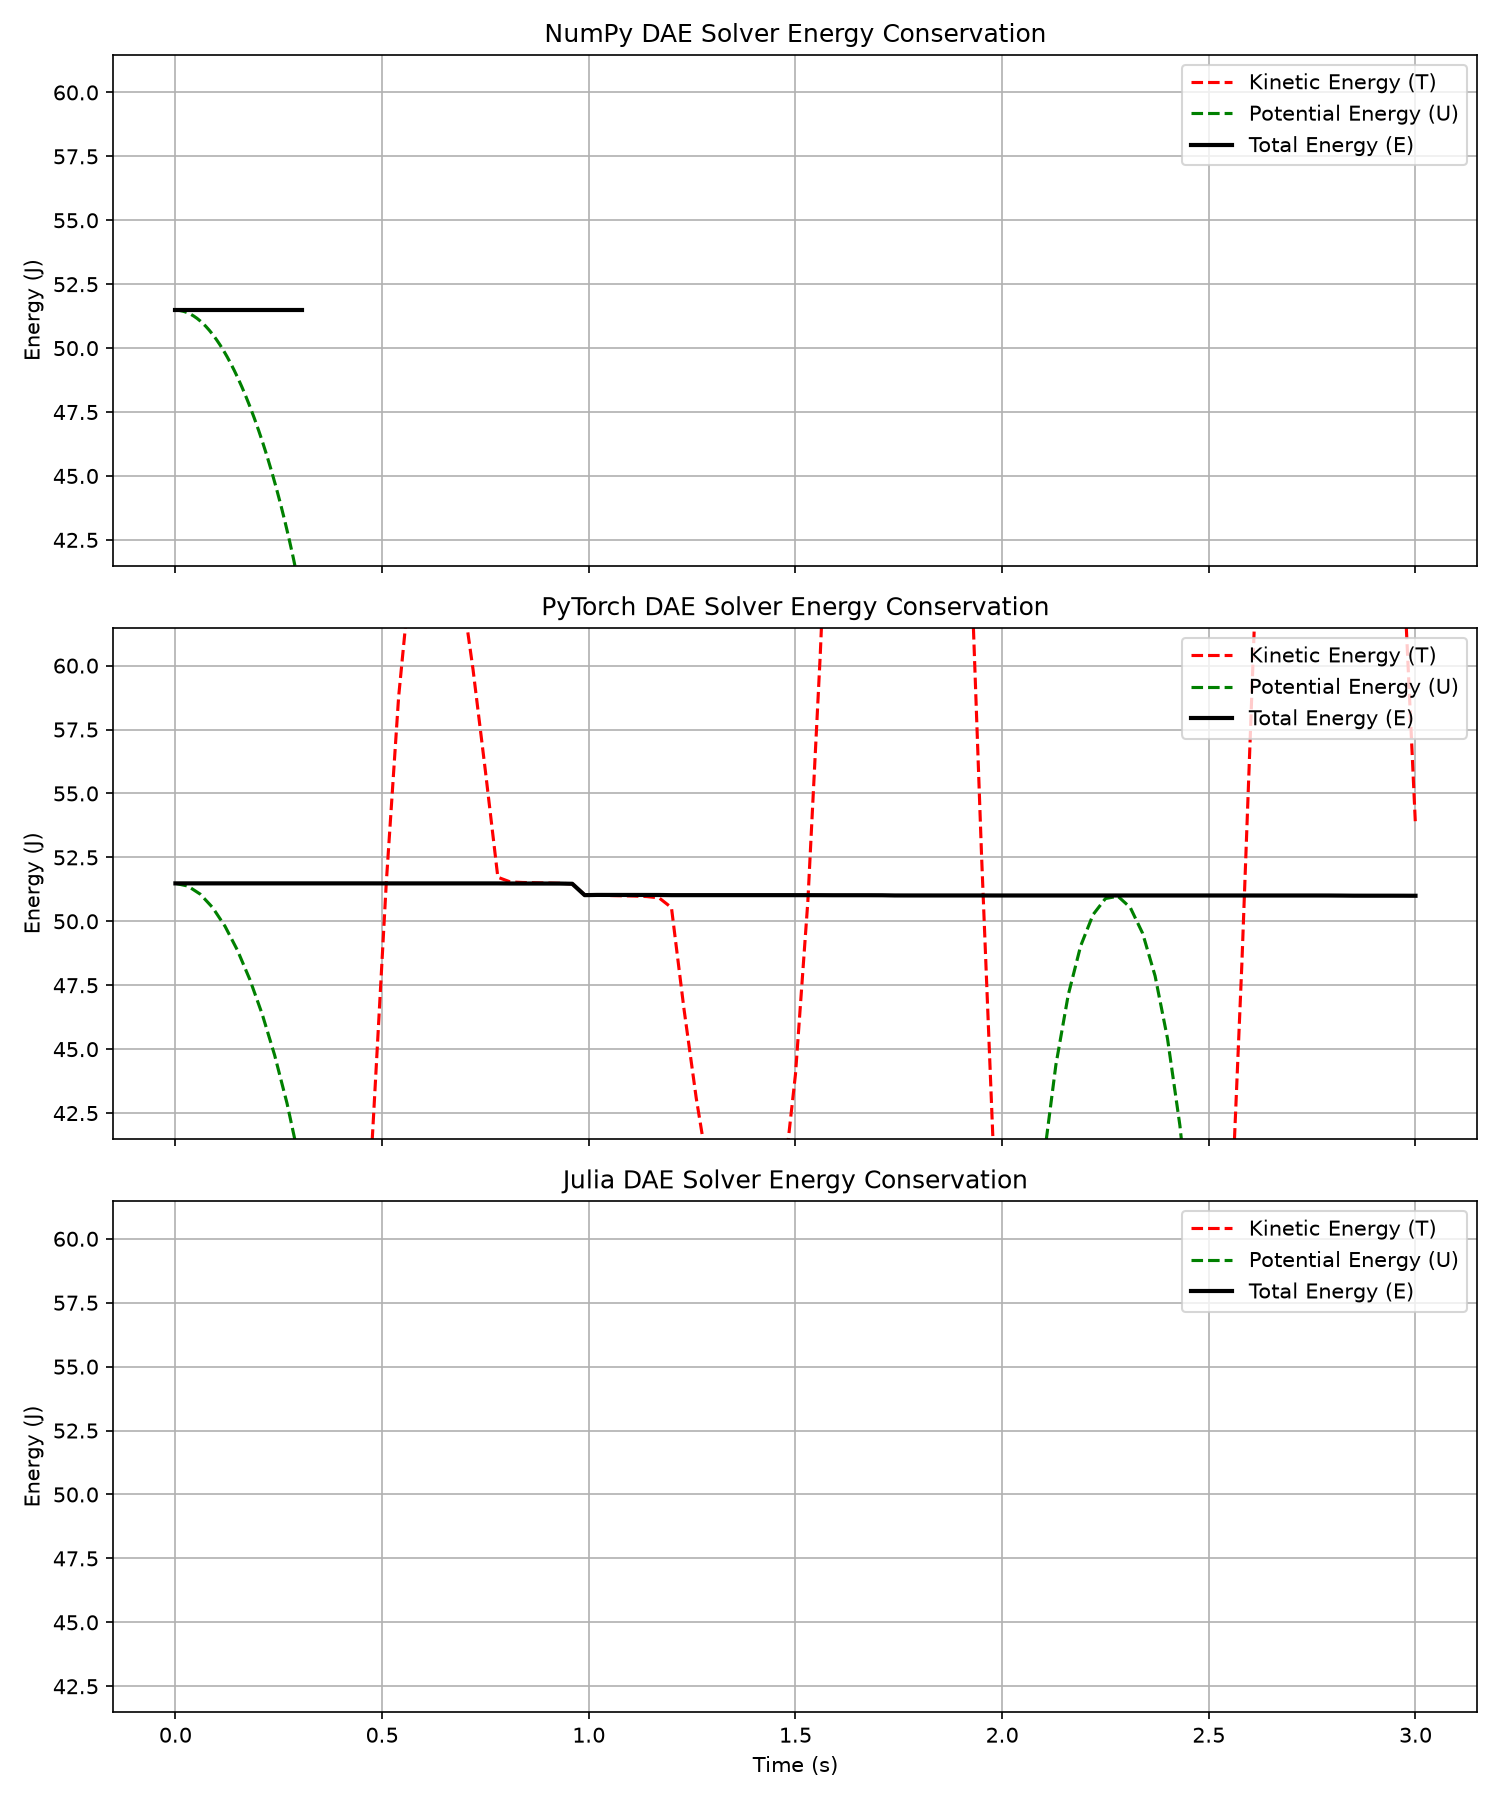
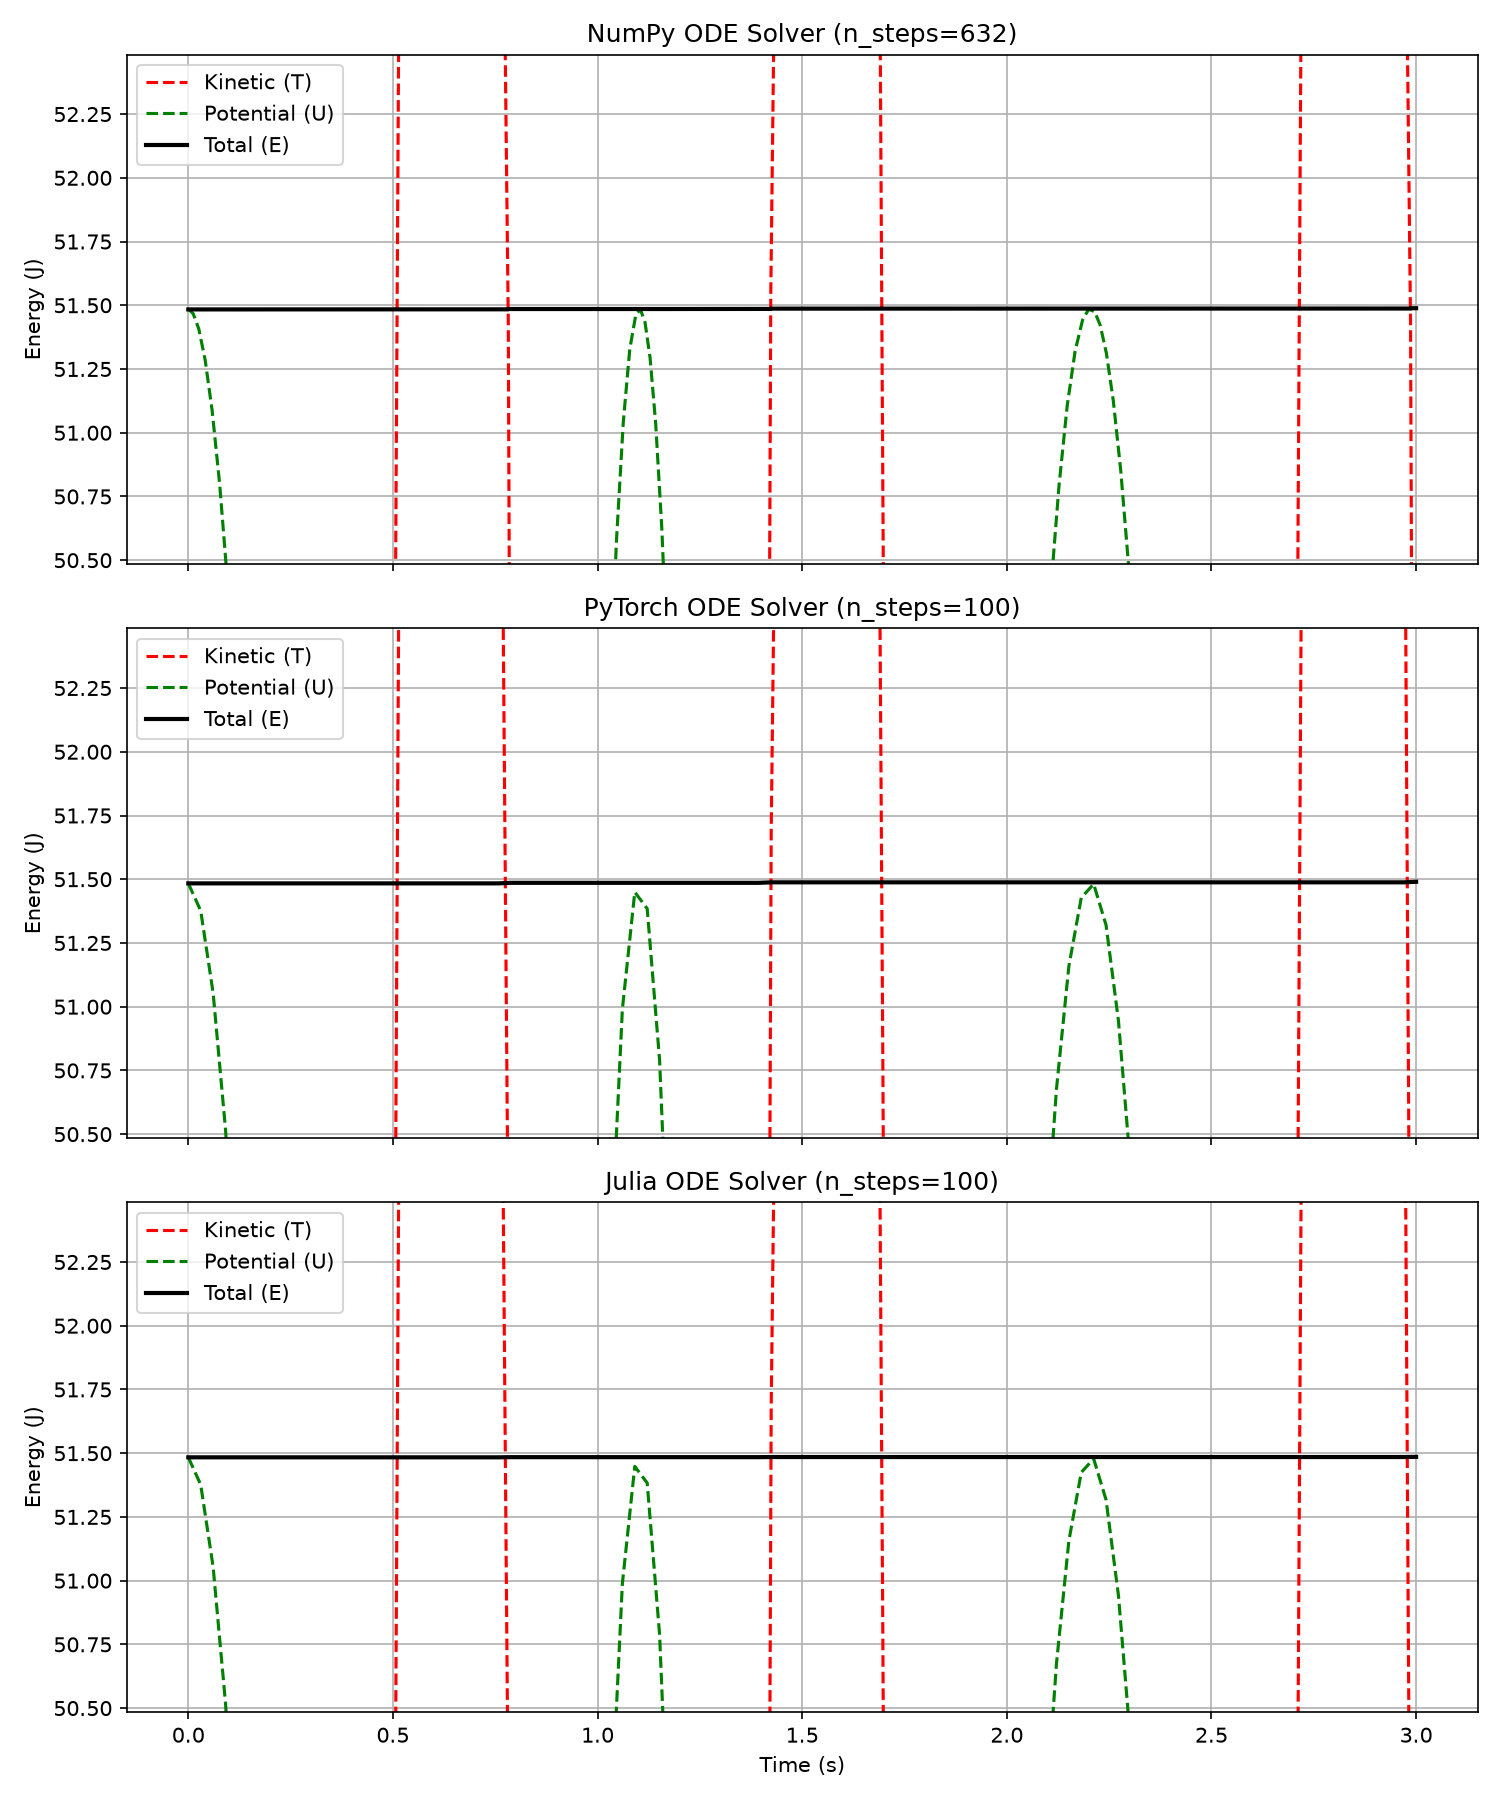
added DAE solvers - verified energy conservation for 4 bar linkage

diff --git a/lowering/torch_lowering.py b/lowering/torch_lowering.py
@@ -1,7 +1,7 @@
 """
 lowering/torch_lowering.py
 ===========================
-Lowers a Braid IR dict to a pure PyTorch ODE function.
+Lowers a Braid IR dict to a compiled PyTorch ODE/DAE function.
 
 The resulting function:
 - Uses only native torch operations (no CasADi at runtime)
@@ -9,143 +9,76 @@ The resulting function:
 - Is fully differentiable via PyTorch autograd
 - Is compatible with torch.vmap for massively parallel batching
 - Works directly with torchdiffeq.odeint / odeint_adjoint
-
-GPU usage
----------
-Move tensors to device before calling:
-    y0 = y0.to('cuda')
-    p  = p.to('cuda')
-The lowered function automatically inherits the device from its inputs.
 """
 
 import torch
 
-
-def _eval_ast(node: dict, x: torch.Tensor, p: torch.Tensor,
-              state_idx: dict, param_idx: dict) -> torch.Tensor:
-    """
-    Recursively evaluate an IR AST node as a PyTorch expression.
-
-    x: (..., n_states)  — state tensor with arbitrary leading batch dims
-    p: (..., n_params) or (n_params,)  — parameter tensor
-    """
+def _ast_to_str(node: dict, state_idx: dict, param_idx: dict) -> str:
     op = node['op']
-
-    # ── Leaves ───────────────────────────────────────────────────────────────
     if op == 'var':
         i = state_idx[node['name']]
-        return x[..., i]
-
+        return f"x[..., {i}]"
     if op == 'param':
         i = param_idx[node['name']]
-        if p.dim() == 1:
-            return p[i]
-        return p[..., i]
-
+        return f"p[..., {i}]"
     if op == 'const':
-        val = float(node['value'])
-        return torch.tensor(val, dtype=x.dtype, device=x.device)
-
-    # ── Composite ─────────────────────────────────────────────────────────────
-    args = [_eval_ast(a, x, p, state_idx, param_idx) for a in node['args']]
-
+        return str(float(node['value']))
+    
+    args = [_ast_to_str(a, state_idx, param_idx) for a in node['args']]
+    
     dispatch = {
-        'add':  lambda a: a[0] + a[1],
-        'sub':  lambda a: a[0] - a[1],
-        'mul':  lambda a: a[0] * a[1],
-        'div':  lambda a: a[0] / a[1],
-        'neg':  lambda a: -a[0],
-        'pow':  lambda a: torch.pow(a[0], a[1]),
-        'sin':  lambda a: torch.sin(a[0]),
-        'cos':  lambda a: torch.cos(a[0]),
-        'tan':  lambda a: torch.tan(a[0]),
-        'exp':  lambda a: torch.exp(a[0]),
-        'log':  lambda a: torch.log(a[0]),
-        'sqrt': lambda a: torch.sqrt(a[0]),
-        'abs':  lambda a: torch.abs(a[0]),
-        'min':  lambda a: torch.minimum(a[0], a[1]),
-        'max':  lambda a: torch.maximum(a[0], a[1]),
-        'ite':  lambda a: torch.where(a[0] != 0.0, a[1], a[2]),
+        'add':  lambda a: f"({a[0]} + {a[1]})",
+        'sub':  lambda a: f"({a[0]} - {a[1]})",
+        'mul':  lambda a: f"({a[0]} * {a[1]})",
+        'div':  lambda a: f"({a[0]} / {a[1]})",
+        'neg':  lambda a: f"(-{a[0]})",
+        'pow':  lambda a: f"torch.pow({a[0]}, {a[1]})",
+        'sin':  lambda a: f"torch.sin({a[0]})",
+        'cos':  lambda a: f"torch.cos({a[0]})",
+        'tan':  lambda a: f"torch.tan({a[0]})",
+        'exp':  lambda a: f"torch.exp({a[0]})",
+        'log':  lambda a: f"torch.log({a[0]})",
+        'sqrt': lambda a: f"torch.sqrt({a[0]})",
+        'abs':  lambda a: f"torch.abs({a[0]})",
+        'min':  lambda a: f"torch.minimum({a[0]}, {a[1]})",
+        'max':  lambda a: f"torch.maximum({a[0]}, {a[1]})",
+        'ite':  lambda a: f"torch.where({a[0]} != 0.0, {a[1]}, {a[2]})",
+        'atan2': lambda a: f"torch.atan2({a[0]}, {a[1]})",
     }
 
+    
     if op not in dispatch:
         raise NotImplementedError(f"Torch lowering: unsupported op '{op}'")
-
     return dispatch[op](args)
 
-
 def make_torch_ode(ir: dict):
-    """
-    Returns a PyTorch ODE function  f(t, x, p) → dxdt.
-
-    The returned function handles:
-    - Unbatched: x.shape = (n_states,)
-    - Batched:   x.shape = (batch, n_states)  or  (..., n_states)
-
-    Args:
-        ir: Braid IR dict
-
-    Returns:
-        Callable: (t: Tensor, x: Tensor, p: Tensor) → Tensor same shape as x
-
-    Example (GPU + torchdiffeq)::
-
-        from lowering.torch_lowering import make_torch_ode
-        from torchdiffeq import odeint_adjoint
-
-        ode_fn = make_torch_ode(ir)
-        p = torch.tensor([1.0, 10.0, 0.5], device='cuda')
-
-        def func(t, y):
-            return ode_fn(t, y, p)
-
-        y0 = torch.zeros(1024, len(ir['states']), device='cuda')
-        t  = torch.linspace(0, 5.0, 200, device='cuda')
-        sol = odeint_adjoint(func, y0, t, method='dopri5')
-        # sol.shape: (200, 1024, n_states)
-    """
     state_idx = {name: i for i, name in enumerate(ir['states'])}
     param_idx = {name: i for i, name in enumerate(ir['params'])}
-    rhs_asts  = [entry['expr'] for entry in ir['ode_rhs']]
-
-    def ode_func(t: torch.Tensor, x: torch.Tensor, p: torch.Tensor) -> torch.Tensor:
-        """
-        t: scalar or 0-d tensor (time)
-        x: (..., n_states)
-        p: (n_params,) or (..., n_params)
-        Returns: (..., n_states)
-        """
-        components = [
-            _eval_ast(ast, x, p, state_idx, param_idx)
-            for ast in rhs_asts
-        ]
-        return torch.stack(components, dim=-1)
-
-    return ode_func
-
+    rhs_strs = []
+    for entry in ir['ode_rhs']:
+        rhs_strs.append(_ast_to_str(entry['expr'], state_idx, param_idx))
+    
+    stack_str = ", ".join(rhs_strs)
+    code = f"""
+def ode_func_compiled(t, x, p):
+    return torch.stack([{stack_str}], dim=-1)
+"""
+    local_vars = {}
+    exec(code, {'torch': torch}, local_vars)
+    return local_vars['ode_func_compiled']
 
 def make_torch_jacobian(ir: dict):
-    """
-    Returns a function  J(t, x, p) → Tensor of shape (..., n_states, n_states)
-    using torch.func.jacrev (vmap-compatible analytical Jacobian).
-
-    Requires PyTorch >= 2.0.
-    """
     ode_fn = make_torch_ode(ir)
     n = len(ir['states'])
 
     def jac_func(t: torch.Tensor, x: torch.Tensor, p: torch.Tensor) -> torch.Tensor:
-        # x: (..., n_states)
-        # Returns: (..., n_states, n_states)
         def f_flat(x_flat):
             return ode_fn(t, x_flat, p)
 
         try:
-            # PyTorch 2.0+ functional API
             from torch.func import jacrev
             J = jacrev(f_flat)(x)
         except ImportError:
-            # Fallback: finite differences
             eps = 1e-6
             f0 = ode_fn(t, x, p)
             batch_shape = x.shape[:-1]
@@ -154,85 +87,70 @@ def make_torch_jacobian(ir: dict):
                 xp = x.clone()
                 xp[..., j] = xp[..., j] + eps
                 J[..., :, j] = (ode_fn(t, xp, p) - f0) / eps
-
         return J
 
     return jac_func
 
-
-def make_torch_residuals(ir: dict):
-    """
-    Returns a callable  F(t, x, yp, p) → residuals  using PyTorch.
-
-    Args:
-        ir: Braid IR dict with 'residuals' and 'xdots'.
-
-    Returns:
-        Callable with signature  F(t: Tensor, x: Tensor, yp: Tensor, p: Tensor) → Tensor same shape as x
-    """
-    state_idx = {name: i for i, name in enumerate(ir['states'])}
-    xdot_idx  = {name: i for i, name in enumerate(ir.get('xdots', []))}
-    param_idx = {name: i for i, name in enumerate(ir['params'])}
-    res_asts  = ir['residuals']
-
-    def residual_func(t: torch.Tensor, x: torch.Tensor, yp: torch.Tensor, p: torch.Tensor) -> torch.Tensor:
-        components = [
-            _eval_ast_dae(ast, x, yp, p, state_idx, xdot_idx, param_idx)
-            for ast in res_asts
-        ]
-        return torch.stack(components, dim=-1)
-
-    return residual_func
-
-
-def _eval_ast_dae(node: dict, x: torch.Tensor, yp: torch.Tensor, p: torch.Tensor,
-                  state_idx: dict, xdot_idx: dict, param_idx: dict) -> torch.Tensor:
+def _ast_to_str_dae(node: dict, state_idx: dict, xdot_idx: dict, param_idx: dict) -> str:
     op = node['op']
-
     if op == 'var':
         name = node['name']
         if name in state_idx:
             i = state_idx[name]
-            return x[..., i]
+            return f"x[..., {i}]"
         elif name in xdot_idx:
             i = xdot_idx[name]
-            return yp[..., i]
+            return f"yp[..., {i}]"
         else:
             raise KeyError(f"Variable '{name}' not found in states or xdots.")
-
     if op == 'param':
         i = param_idx[node['name']]
-        if p.dim() == 1:
-            return p[i]
-        return p[..., i]
-
+        return f"p[..., {i}]"
     if op == 'const':
-        val = float(node['value'])
-        return torch.tensor(val, dtype=x.dtype, device=x.device)
-
-    args = [_eval_ast_dae(a, x, yp, p, state_idx, xdot_idx, param_idx) for a in node['args']]
-
+        return str(float(node['value']))
+    
+    args = [_ast_to_str_dae(a, state_idx, xdot_idx, param_idx) for a in node['args']]
+    
     dispatch = {
-        'add':  lambda a: a[0] + a[1],
-        'sub':  lambda a: a[0] - a[1],
-        'mul':  lambda a: a[0] * a[1],
-        'div':  lambda a: a[0] / a[1],
-        'neg':  lambda a: -a[0],
-        'pow':  lambda a: torch.pow(a[0], a[1]),
-        'sin':  lambda a: torch.sin(a[0]),
-        'cos':  lambda a: torch.cos(a[0]),
-        'tan':  lambda a: torch.tan(a[0]),
-        'exp':  lambda a: torch.exp(a[0]),
-        'log':  lambda a: torch.log(a[0]),
-        'sqrt': lambda a: torch.sqrt(a[0]),
-        'abs':  lambda a: torch.abs(a[0]),
-        'min':  lambda a: torch.minimum(a[0], a[1]),
-        'max':  lambda a: torch.maximum(a[0], a[1]),
-        'ite':  lambda a: torch.where(a[0] != 0.0, a[1], a[2]),
+        'add':  lambda a: f"({a[0]} + {a[1]})",
+        'sub':  lambda a: f"({a[0]} - {a[1]})",
+        'mul':  lambda a: f"({a[0]} * {a[1]})",
+        'div':  lambda a: f"({a[0]} / {a[1]})",
+        'neg':  lambda a: f"(-{a[0]})",
+        'pow':  lambda a: f"torch.pow({a[0]}, {a[1]})",
+        'sin':  lambda a: f"torch.sin({a[0]})",
+        'cos':  lambda a: f"torch.cos({a[0]})",
+        'tan':  lambda a: f"torch.tan({a[0]})",
+        'exp':  lambda a: f"torch.exp({a[0]})",
+        'log':  lambda a: f"torch.log({a[0]})",
+        'sqrt': lambda a: f"torch.sqrt({a[0]})",
+        'abs':  lambda a: f"torch.abs({a[0]})",
+        'min':  lambda a: f"torch.minimum({a[0]}, {a[1]})",
+        'max':  lambda a: f"torch.maximum({a[0]}, {a[1]})",
+        'ite':  lambda a: f"torch.where({a[0]} != 0.0, {a[1]}, {a[2]})",
+        'atan2': lambda a: f"torch.atan2({a[0]}, {a[1]})",
     }
 
+    
     if op not in dispatch:
         raise NotImplementedError(f"Torch lowering: unsupported op '{op}'")
-
     return dispatch[op](args)
+
+def make_torch_residuals(ir: dict):
+    state_idx = {name: i for i, name in enumerate(ir['states'])}
+    xdot_idx  = {name: i for i, name in enumerate(ir.get('xdots', []))}
+    param_idx = {name: i for i, name in enumerate(ir['params'])}
+    
+    res_strs = []
+    for ast in ir['residuals']:
+        res_strs.append(_ast_to_str_dae(ast, state_idx, xdot_idx, param_idx))
+    
+    stack_str = ", ".join(res_strs)
+    code = f"""
+def residual_func_compiled(t, x, yp, p):
+    return torch.stack([{stack_str}], dim=-1)
+"""
+    local_vars = {}
+    exec(code, {'torch': torch}, local_vars)
+    return local_vars['residual_func_compiled']
 

diff --git a/backends/julia_backend.py b/backends/julia_backend.py
@@ -159,7 +159,10 @@ end
     if atol is not None:
         solve_opts.append(f"abstol={atol}")
     if is_dae:
-        solve_opts.append("initializealg=NoInit()")
+        initializealg = kwargs.get('initializealg', 'NoInit()')
+        if initializealg:
+            solve_opts.append(f"initializealg={initializealg}")
+
 
 
     solve_opts_str = ", ".join(solve_opts)
@@ -313,12 +316,14 @@ print(JSON.json(out))
     try:
         cmd = ["julia", temp_path]
         proc = subprocess.run(cmd, capture_output=True, text=True)
+        if proc.stderr:
+            print("--- JULIA RUN STDERR ---")
+            print(proc.stderr)
         if proc.returncode != 0:
             print("--- JULIA RUN STDOUT ---")
             print(proc.stdout)
-            print("--- JULIA RUN STDERR ---")
-            print(proc.stderr)
             raise RuntimeError(f"Julia execution failed with exit code {proc.returncode}")
+
             
         result = json.loads(proc.stdout)
         t_arr = np.array(result["t"])

diff --git a/lowering/numpy_lowering.py b/lowering/numpy_lowering.py
@@ -43,7 +43,9 @@ def _eval_ast(node: dict, x: np.ndarray, p: np.ndarray,
         'min':  lambda a: np.minimum(a[0], a[1]),
         'max':  lambda a: np.maximum(a[0], a[1]),
         'ite':  lambda a: np.where(a[0] != 0.0, a[1], a[2]),
+        'atan2': lambda a: np.arctan2(a[0], a[1]),
     }
+
 
     if op not in dispatch:
         raise NotImplementedError(f"NumPy lowering: unsupported op '{op}'")
@@ -159,7 +161,9 @@ def _eval_ast_dae(node: dict, x: np.ndarray, yp: np.ndarray, p: np.ndarray,
         'min':  lambda a: np.minimum(a[0], a[1]),
         'max':  lambda a: np.maximum(a[0], a[1]),
         'ite':  lambda a: np.where(a[0] != 0.0, a[1], a[2]),
+        'atan2': lambda a: np.arctan2(a[0], a[1]),
     }
+
 
     if op not in dispatch:
         raise NotImplementedError(f"NumPy lowering: unsupported op '{op}'")

diff --git a/ir.py b/ir.py
@@ -71,7 +71,9 @@ _OP_MAP = {
     ca.OP_SQ:            'sq',    # x² → handled as pow(x, 2)
     ca.OP_TWICE:         'twice', # 2*x → handled as mul(2, x)
     ca.OP_INV:           'inv',   # 1/x → handled as div(1, x)
+    ca.OP_ATAN2:         'atan2',
 }
+
 
 
 # ─────────────────────────────────────────────────────────────────────────────

diff --git a/lowering/julia_lowering.py b/lowering/julia_lowering.py
@@ -43,7 +43,9 @@ def ast_to_julia_string(node: dict, state_names: list, param_names: list, xdot_n
         'min':  lambda a: f"min({a[0]}, {a[1]})",
         'max':  lambda a: f"max({a[0]}, {a[1]})",
         'ite':  lambda a: f"({a[0]} != 0.0 ? {a[1]} : {a[2]})",
+        'atan2': lambda a: f"atan({a[0]}, {a[1]})",
     }
+
 
     if op not in dispatch:
         raise NotImplementedError(f"Julia lowering: unsupported op '{op}'")